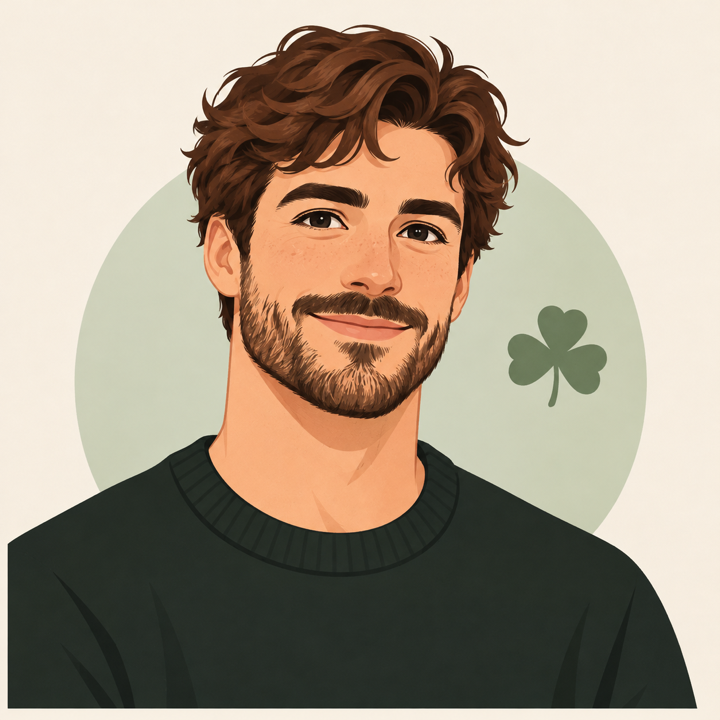
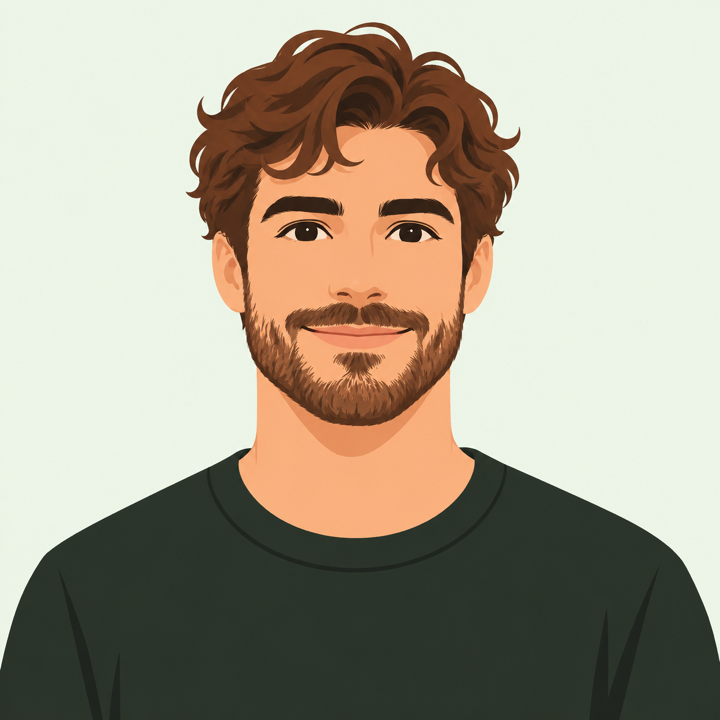
Update tutor image from Figma (new photo and background colour)

diff --git a/src/styles/components.css b/src/styles/components.css
@@ -104,7 +104,7 @@
 .step-goal__dot--done { background: var(--bg-brand-accent); }
 
 /* ---------- Tutor video ---------- */
-.tutor-video { position: relative; flex: none; height: 200px; border-radius: var(--radius-lg); overflow: hidden; background: #f7ede0; }
+.tutor-video { position: relative; flex: none; height: 200px; border-radius: var(--radius-lg); overflow: hidden; background: #ecf5e7; }
 .tutor-video__photo { position: absolute; width: 82.75%; height: 141.92%; left: 8.67%; top: 0.16%; max-width: none; }
 .tutor-video--avatar { background: var(--bg-brand-subtle); border-radius: var(--radius-xl); }
 .tutor-video__ring { position: absolute; left: 50%; top: 50%; transform: translate(-50%, -50%); }
